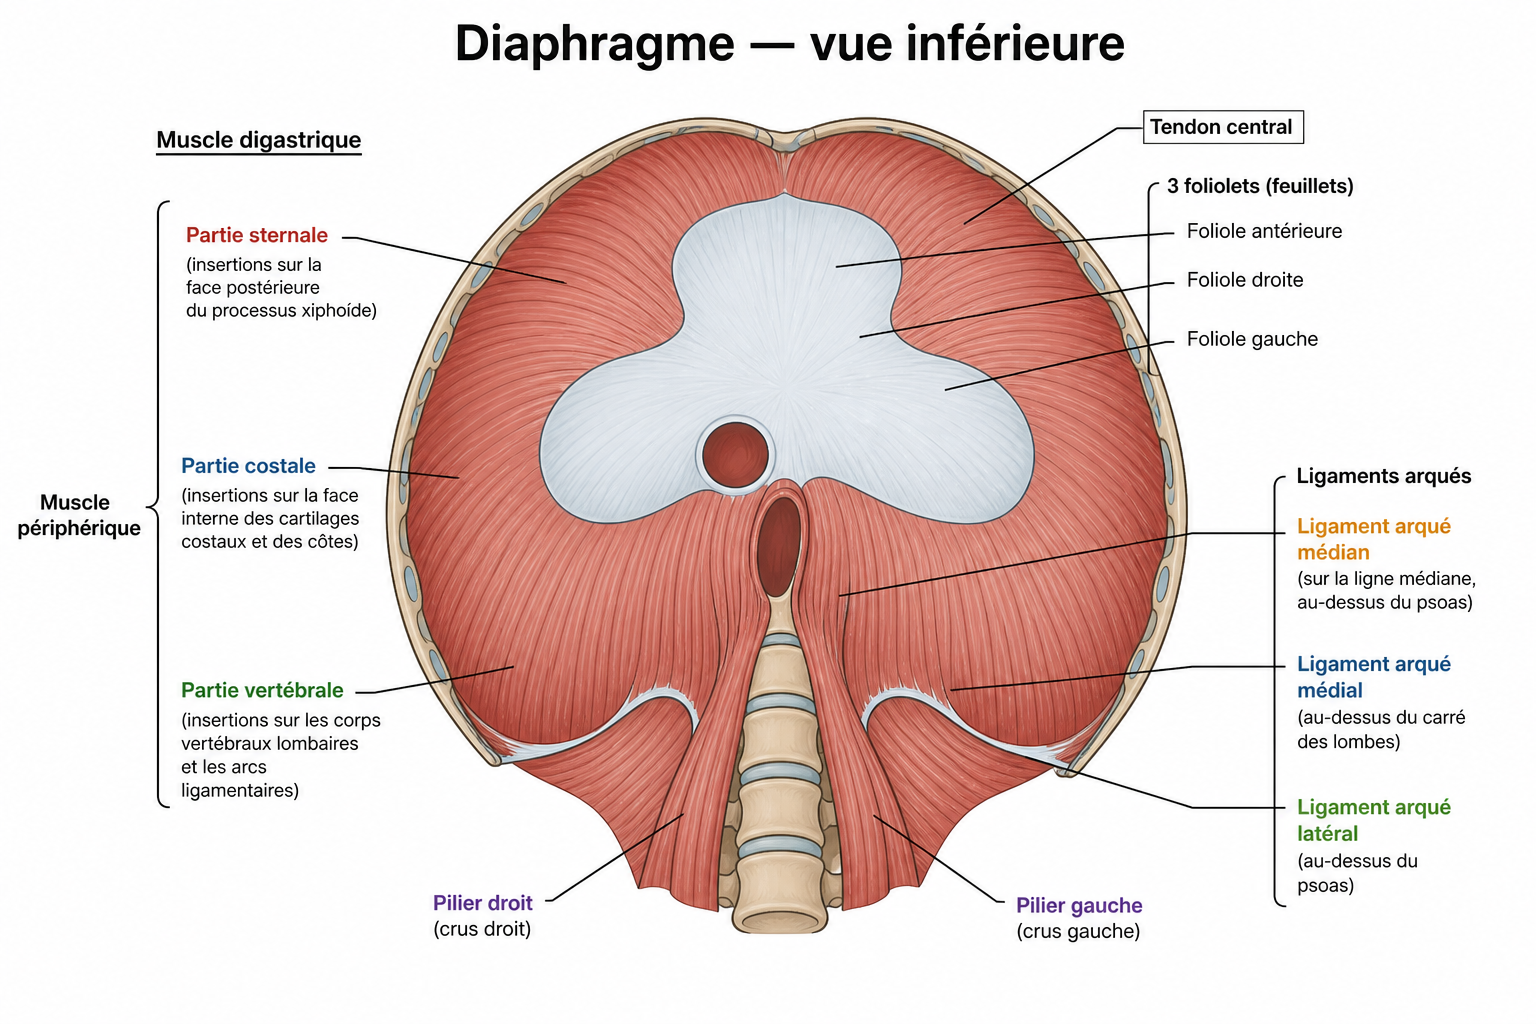
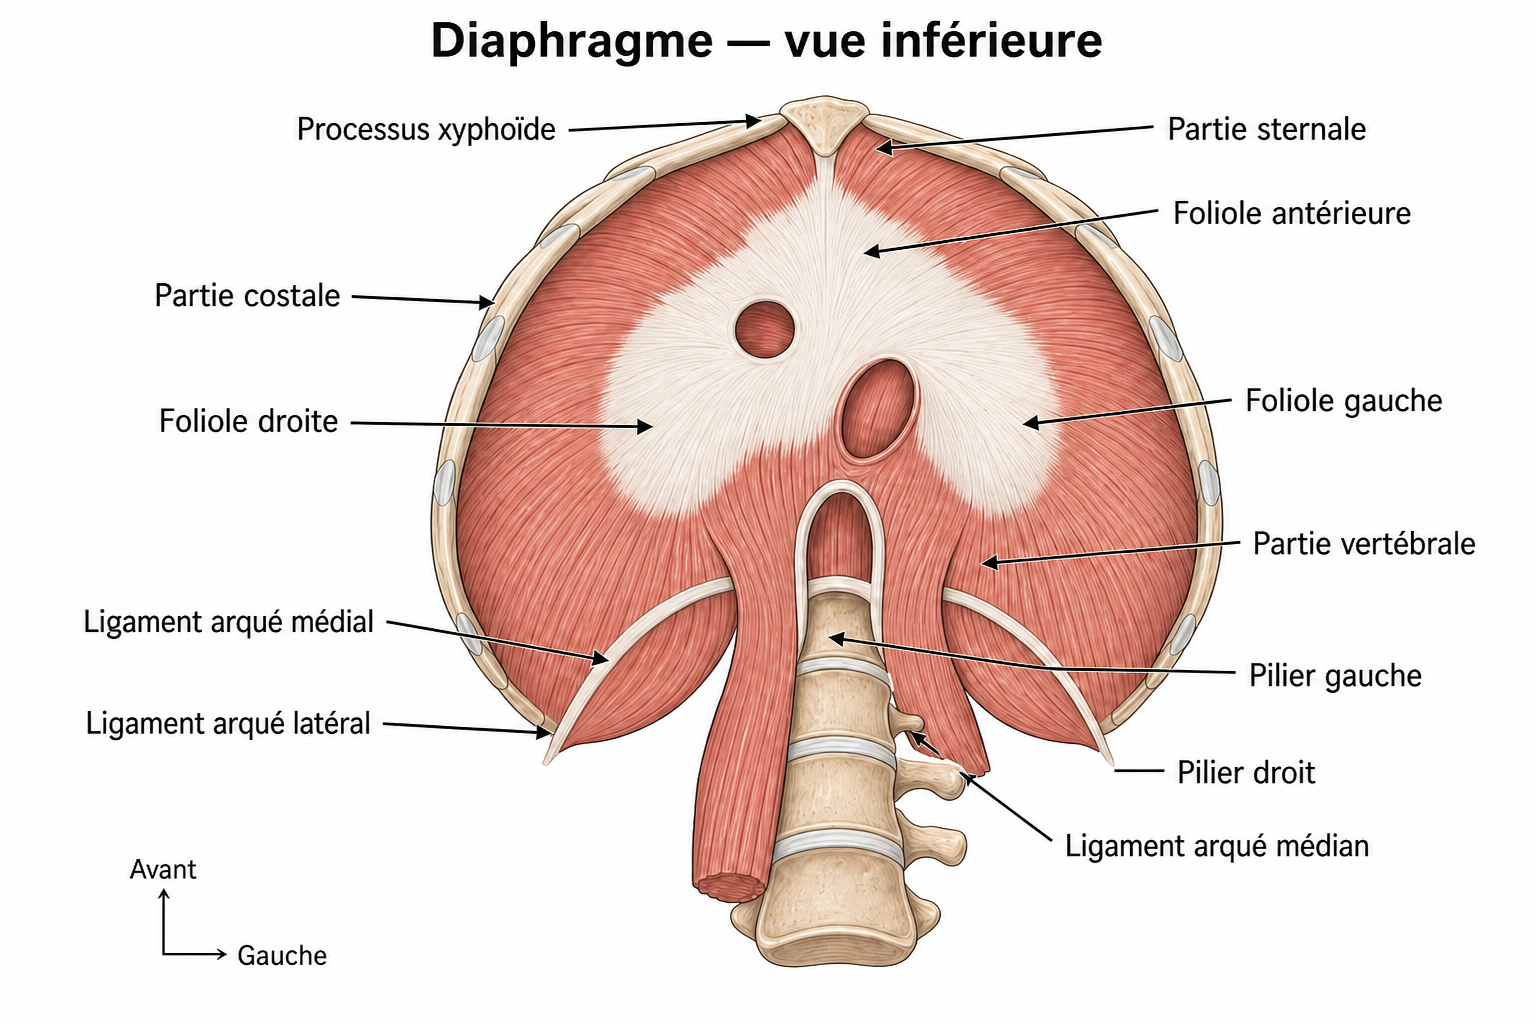
Fix ch03 diaphragm inferior view labels and arcuate ligament types.

diff --git a/matiere/anatomie/ch03.html b/matiere/anatomie/ch03.html
@@ -156,16 +156,16 @@
       <h2>4. Le diaphragme <span class="tag p1">P1</span></h2>
       <div class="callout hot"><strong>Souvent tombé</strong> Section la plus dense : digastrique, coupoles, 3 hiatus T12/T10/T9.</div>
       <figure class="schema">
-        <img src="./img/ch03/05_diaphragme_inf.png" alt="Diaphragme vue inférieure" />
+        <img src="./img/ch03/05_diaphragme_inf.png?v=fc3a" alt="Diaphragme vue inférieure" />
       </figure>
       <figure class="schema">
         <img src="./img/ch03/06_coupoles.png" alt="Coupoles diaphragmatiques" />
       </figure>
-      <div class="label-quiz" data-labels='[["digastrique"],["xyphoide","processus xyphoide"],["costale"],["vertebrale"],["gauche"],["phreniques","nerfs phreniques"],["c4"]]'>
+      <div class="label-quiz" data-labels='[["digastrique"],["xyphoide","processus xyphoide"],["costale"],["lateral"],["vertebrale"],["median"],["medial"],["gauche"],["phreniques","nerfs phreniques"],["c4"]]'>
         <div class="course-cloze">
           <ul>
             <li>Muscle <span class="slot"><span class="drop"></span></span> <span class="tag">⭐⭐</span> : centre tendineux <span class="tag">⭐</span> (trèfle à 3 folioles) + périphérie musculaire.</li>
-            <li>Partie sternale : face postérieure du <span class="slot"><span class="drop"></span></span> <span class="tag">⭐⭐</span> · partie <span class="slot"><span class="drop"></span></span> <span class="tag">⭐</span> (cartilages + lig. arqué latéral) · partie <span class="slot"><span class="drop"></span></span> <span class="tag">⭐</span> (piliers L3–L1 / L2–L1 + lig. arqués).</li>
+            <li>Partie sternale : face postérieure du <span class="slot"><span class="drop"></span></span> <span class="tag">⭐⭐</span> · partie <span class="slot"><span class="drop"></span></span> <span class="tag">⭐</span> (cartilages + lig. arqué <span class="slot"><span class="drop"></span></span>) · partie <span class="slot"><span class="drop"></span></span> <span class="tag">⭐</span> (piliers L3–L1 / L2–L1 + lig. arqué <span class="slot"><span class="drop"></span></span> + <span class="slot"><span class="drop"></span></span>).</li>
             <li>Coupole <span class="slot"><span class="drop"></span></span> plus bas <span class="tag">⭐</span> (rate &lt; foie).</li>
             <li>Innervé par 2 nerfs <span class="slot"><span class="drop"></span></span> <span class="tag">⭐</span> (racine <span class="slot"><span class="drop"></span></span>) · inspiration active / expiration passive.</li>
           </ul>
@@ -178,6 +178,9 @@
           <span class="label-chip" data-value="phréniques">phréniques</span>
           <span class="label-chip" data-value="costale">costale</span>
           <span class="label-chip" data-value="vertébrale">vertébrale</span>
+          <span class="label-chip" data-value="latéral">latéral</span>
+          <span class="label-chip" data-value="médian">médian</span>
+          <span class="label-chip" data-value="médial">médial</span>
         </div>
         <div class="label-quiz-actions">
           <button type="button" class="btn-mini" data-check>Vérifier</button>
@@ -574,7 +577,7 @@
         <summary>P3 — lecture attentive</summary>
         <div class="flash">
           <div class="flash-card" tabindex="0"><div class="front">Systole vs diastole (valves) ?</div><div class="back">Systole : AV fermées, artérielles ouvertes · diastole = inverse.</div></div>
-          <div class="flash-card" tabindex="0"><div class="front">Diaphragme : 3 parties d’insertion ?</div><div class="back">Sternale (xyphoïde ⭐⭐) · costale ⭐ · vertébrale ⭐ (piliers + lig. arqués).</div></div>
+          <div class="flash-card" tabindex="0"><div class="front">Diaphragme : 3 parties d’insertion ?</div><div class="back">Sternale (xyphoïde ⭐⭐) · costale ⭐ (lig. arqué latéral) · vertébrale ⭐ (piliers + lig. arqués médian et médial).</div></div>
           <div class="flash-card" tabindex="0"><div class="front">Lymphatique 🆕 ?</div><div class="back">Voie d’expansion des cancers (+ immunité).</div></div>
         </div>
       </details>

diff --git a/data/flash/ch03.js b/data/flash/ch03.js
@@ -59,7 +59,7 @@
     { id: "FC-ANAT-03-050", chapter: "03", priority: "P2", kind: "text", front: "Vue ant. vs post. ?", back: "Ant. = cœur droit · post. = cœur gauche." },
     { id: "FC-ANAT-03-051", chapter: "03", priority: "P2", kind: "text", front: "Vue antérieure vs postérieure du cœur : quel côté domine ?", back: "Antérieure ≈ cœur droit. Postérieure ≈ cœur gauche." },
     { id: "FC-ANAT-03-052", chapter: "03", priority: "P3", kind: "text", front: "Anatomie fonctionnelle du cœur : idée ?", back: "Lien morphologie ↔ fonction (pompe double, cycles systole/diastole)." },
-    { id: "FC-ANAT-03-053", chapter: "03", priority: "P3", kind: "text", front: "Diaphragme : 3 parties d’insertion ?", back: "Sternale (xyphoïde ⭐⭐) · costale ⭐ · vertébrale ⭐ (piliers + lig. arqués)." },
+    { id: "FC-ANAT-03-053", chapter: "03", priority: "P3", kind: "text", front: "Diaphragme : 3 parties d’insertion ?", back: "Sternale (xyphoïde ⭐⭐) · costale ⭐ (lig. arqué latéral) · vertébrale ⭐ (piliers + lig. arqués médian et médial)." },
     { id: "FC-ANAT-03-054", chapter: "03", priority: "P3", kind: "text", front: "Lymphatique : rôle général ?", back: "Drainage / retour de liquide et défense (ganglions, vaisseaux lymphatiques)." },
     { id: "FC-ANAT-03-055", chapter: "03", priority: "P3", kind: "text", front: "Lymphatique 🆕 ?", back: "Voie d’expansion des cancers (+ immunité)." },
     { id: "FC-ANAT-03-056", chapter: "03", priority: "P3", kind: "text", front: "Rapports du cœur : notion simple ?", back: "Relations de voisinage (poumons, sternum, diaphragme, gros vaisseaux…)." },
@@ -69,7 +69,7 @@
     { id: "FC-ANAT-03-S02", chapter: "03", priority: "P2", kind: "schema", front: "Schéma — Quatre cavités cardiaques", back: "Quatre cavités cardiaques", frontImg: "matiere/anatomie/img/ch03/blank/02_4_cavites.png", backImg: "matiere/anatomie/img/ch03/02_4_cavites.png" },
     { id: "FC-ANAT-03-S03", chapter: "03", priority: "P2", kind: "schema", front: "Schéma — Douze côtes", back: "Douze côtes", frontImg: "matiere/anatomie/img/ch03/blank/03_12_cotes.png", backImg: "matiere/anatomie/img/ch03/03_12_cotes.png" },
     { id: "FC-ANAT-03-S04", chapter: "03", priority: "P2", kind: "schema", front: "Schéma — Sternum en trois parties", back: "Sternum en trois parties", frontImg: "matiere/anatomie/img/ch03/blank/04_sternum.png", backImg: "matiere/anatomie/img/ch03/04_sternum.png" },
-    { id: "FC-ANAT-03-S05", chapter: "03", priority: "P1", kind: "schema", front: "Schéma — Diaphragme vue inférieure", back: "Diaphragme vue inférieure", frontImg: "matiere/anatomie/img/ch03/blank/05_diaphragme_inf.png", backImg: "matiere/anatomie/img/ch03/05_diaphragme_inf.png" },
+    { id: "FC-ANAT-03-S05", chapter: "03", priority: "P1", kind: "schema", front: "Schéma — Diaphragme vue inférieure", back: "Diaphragme vue inférieure", frontImg: "matiere/anatomie/img/ch03/blank/05_diaphragme_inf.png?v=fc3a", backImg: "matiere/anatomie/img/ch03/05_diaphragme_inf.png?v=fc3a" },
     { id: "FC-ANAT-03-S06", chapter: "03", priority: "P1", kind: "schema", front: "Schéma — Coupoles diaphragmatiques", back: "Coupoles diaphragmatiques", frontImg: "matiere/anatomie/img/ch03/blank/06_coupoles.png", backImg: "matiere/anatomie/img/ch03/06_coupoles.png" },
     { id: "FC-ANAT-03-S07", chapter: "03", priority: "P1", kind: "schema", front: "Schéma — Trois hiatus du diaphragme", back: "Trois hiatus du diaphragme", frontImg: "matiere/anatomie/img/ch03/blank/07_hiatus.png", backImg: "matiere/anatomie/img/ch03/07_hiatus.png" },
     { id: "FC-ANAT-03-S08", chapter: "03", priority: "P2", kind: "schema", front: "Schéma — Médiastin", back: "Médiastin", frontImg: "matiere/anatomie/img/ch03/blank/08_mediastin.png", backImg: "matiere/anatomie/img/ch03/08_mediastin.png" },
